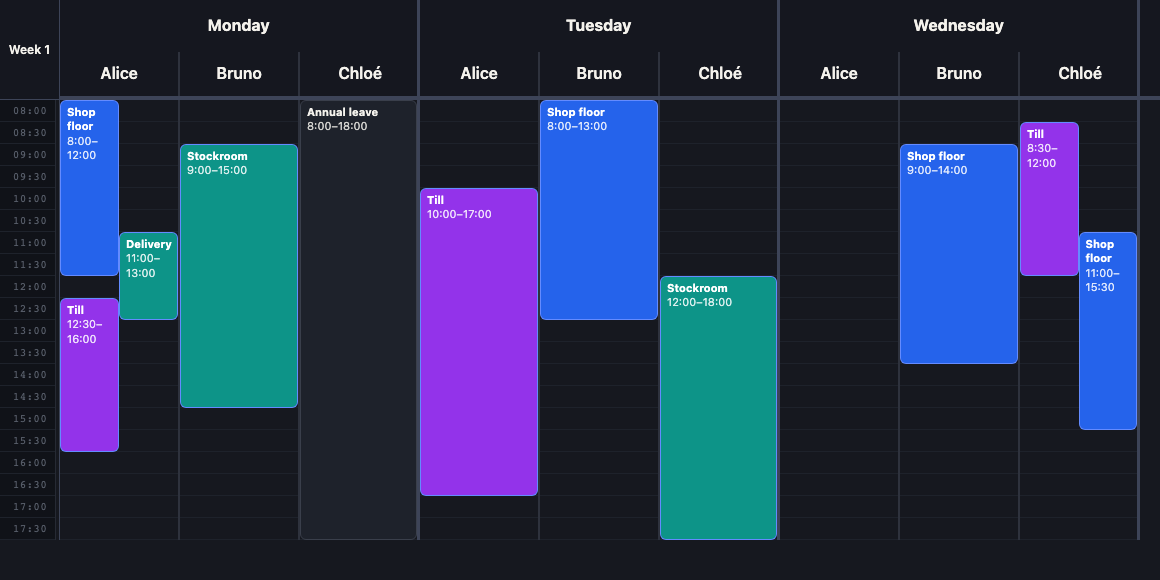
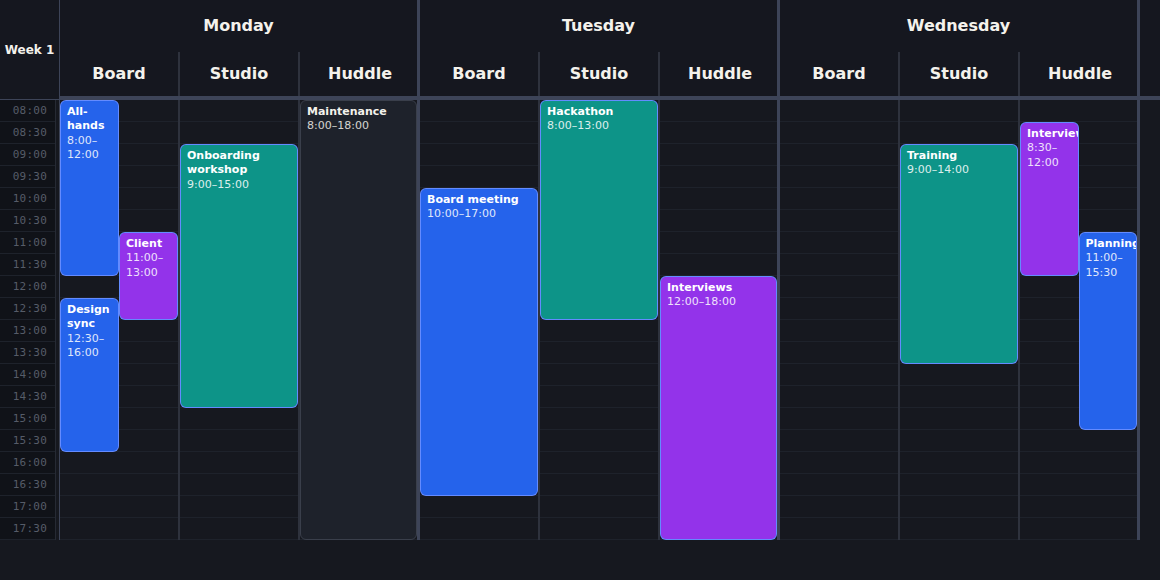
Reframe the demo as meeting-room booking (#1)
The demo scene was a staff rota (people, shifts, till/stockroom, annual
leave). It now books three meeting rooms across the week: columns are
rooms, events are bookings, and the locked entry is a maintenance block
that rejects moves onto it. Scheduling mechanics are unchanged; README
copy and screenshots are updated to match.

Claude-Session: https://claude.ai/code/session_014nqdaeoffUGhhUN4Riuzdh

diff --git a/demo/scene.tsx b/demo/scene.tsx
@@ -1,10 +1,10 @@
 // Demo scene shared by the live demo (demo/App.tsx) and the README screenshots
-// (scripts/readme-screenshot.test.tsx).
+// (scripts/readme-screenshot.test.tsx): meeting rooms booked across a week.
 import type { EventRenderContext, SchedulerColumn } from '../src/index'
 
-export type Shift = {
+export type Booking = {
   id: string
-  person: string
+  room: string
   title: string
   start: Date
   end: Date
@@ -12,11 +12,16 @@ export type Shift = {
   editable?: boolean
 }
 
-export type PersonColumn = SchedulerColumn<Shift, { person: string }>
+export type RoomColumn = SchedulerColumn<Booking, { room: string }>
 
-export const people = ['Alice', 'Bruno', 'Chloé']
+export const rooms = ['Board', 'Studio', 'Huddle']
 const dayNames = ['Monday', 'Tuesday', 'Wednesday']
-export const colors = { floor: '#2563eb', stock: '#0d9488', till: '#9333ea', leave: '#6b7280' }
+export const colors = {
+  meeting: '#2563eb',
+  workshop: '#0d9488',
+  interview: '#9333ea',
+  maintenance: '#6b7280',
+}
 
 /** Monday of the week the demo shows (the current week, so the demo never looks stale). */
 export function demoWeekStart(today = new Date()): Date {
@@ -26,7 +31,7 @@ export function demoWeekStart(today = new Date()): Date {
   return monday
 }
 
-export function demoShifts(weekStart: Date): Shift[] {
+export function demoBookings(weekStart: Date): Booking[] {
   const at = (day: number, h: number, m = 0) => {
     const d = new Date(weekStart)
     d.setDate(d.getDate() + day)
@@ -34,21 +39,21 @@ export function demoShifts(weekStart: Date): Shift[] {
     return d
   }
   return [
-    { id: '1', person: 'Alice', title: 'Shop floor', start: at(0, 8), end: at(0, 12), color: colors.floor },
-    { id: '2', person: 'Alice', title: 'Delivery', start: at(0, 11), end: at(0, 13), color: colors.stock },
-    { id: '3', person: 'Alice', title: 'Till', start: at(0, 12, 30), end: at(0, 16), color: colors.till },
-    { id: '4', person: 'Bruno', title: 'Stockroom', start: at(0, 9), end: at(0, 15), color: colors.stock },
-    { id: '5', person: 'Chloé', title: 'Annual leave', start: at(0, 8), end: at(0, 18), color: colors.leave, editable: false },
-    { id: '6', person: 'Alice', title: 'Till', start: at(1, 10), end: at(1, 17), color: colors.till },
-    { id: '7', person: 'Bruno', title: 'Shop floor', start: at(1, 8), end: at(1, 13), color: colors.floor },
-    { id: '8', person: 'Chloé', title: 'Stockroom', start: at(1, 12), end: at(1, 18), color: colors.stock },
-    { id: '9', person: 'Bruno', title: 'Shop floor', start: at(2, 9), end: at(2, 14), color: colors.floor },
-    { id: '10', person: 'Chloé', title: 'Till', start: at(2, 8, 30), end: at(2, 12), color: colors.till },
-    { id: '11', person: 'Chloé', title: 'Shop floor', start: at(2, 11), end: at(2, 15, 30), color: colors.floor },
+    { id: '1', room: 'Board', title: 'All-hands', start: at(0, 8), end: at(0, 12), color: colors.meeting },
+    { id: '2', room: 'Board', title: 'Client', start: at(0, 11), end: at(0, 13), color: colors.interview },
+    { id: '3', room: 'Board', title: 'Design sync', start: at(0, 12, 30), end: at(0, 16), color: colors.meeting },
+    { id: '4', room: 'Studio', title: 'Onboarding workshop', start: at(0, 9), end: at(0, 15), color: colors.workshop },
+    { id: '5', room: 'Huddle', title: 'Maintenance', start: at(0, 8), end: at(0, 18), color: colors.maintenance, editable: false },
+    { id: '6', room: 'Board', title: 'Board meeting', start: at(1, 10), end: at(1, 17), color: colors.meeting },
+    { id: '7', room: 'Studio', title: 'Hackathon', start: at(1, 8), end: at(1, 13), color: colors.workshop },
+    { id: '8', room: 'Huddle', title: 'Interviews', start: at(1, 12), end: at(1, 18), color: colors.interview },
+    { id: '9', room: 'Studio', title: 'Training', start: at(2, 9), end: at(2, 14), color: colors.workshop },
+    { id: '10', room: 'Huddle', title: 'Interview', start: at(2, 8, 30), end: at(2, 12), color: colors.interview },
+    { id: '11', room: 'Huddle', title: 'Planning', start: at(2, 11), end: at(2, 15, 30), color: colors.meeting },
   ]
 }
 
-export function demoColumns(weekStart: Date, dayCount = dayNames.length): PersonColumn[] {
+export function demoColumns(weekStart: Date, dayCount = dayNames.length): RoomColumn[] {
   const names = ['Monday', 'Tuesday', 'Wednesday', 'Thursday', 'Friday', 'Saturday', 'Sunday']
   return names.slice(0, dayCount).map((day, index) => {
     const date = new Date(weekStart)
@@ -57,11 +62,11 @@ export function demoColumns(weekStart: Date, dayCount = dayNames.length): Person
       id: day.toLowerCase(),
       title: day,
       date,
-      children: people.map((person) => ({
-        id: `${day.toLowerCase()}-${person}`,
-        title: person,
-        data: { person },
-        filterEvents: (events: Shift[]) => events.filter((shift) => shift.person === person),
+      children: rooms.map((room) => ({
+        id: `${day.toLowerCase()}-${room}`,
+        title: room,
+        data: { room },
+        filterEvents: (events: Booking[]) => events.filter((booking) => booking.room === room),
       })),
     }
   })
@@ -69,8 +74,8 @@ export function demoColumns(weekStart: Date, dayCount = dayNames.length): Person
 
 const time = (d: Date) => `${d.getHours()}:${String(d.getMinutes()).padStart(2, '0')}`
 
-/** Card body for a shift; the bottom strip is the resize handle. */
-export function ShiftCard({ shift, ctx }: { shift: Shift; ctx: EventRenderContext<Shift> }) {
+/** Card body for a booking; the bottom strip is the resize handle. */
+export function BookingCard({ booking, ctx }: { booking: Booking; ctx: EventRenderContext<Booking> }) {
   return (
     <div
       style={{
@@ -79,14 +84,14 @@ export function ShiftCard({ shift, ctx }: { shift: Shift; ctx: EventRenderContex
         padding: '4px 6px',
         boxSizing: 'border-box',
         borderRadius: 5,
-        background: ctx.editable || ctx.isPending ? shift.color : 'transparent',
+        background: ctx.editable || ctx.isPending ? booking.color : 'transparent',
         opacity: ctx.isPending ? 0.7 : 1,
         fontSize: 11,
         lineHeight: 1.3,
         overflow: 'hidden',
       }}
     >
-      <strong>{shift.title}</strong>
+      <strong>{booking.title}</strong>
       <div style={{ opacity: 0.85 }}>
         {time(ctx.displayStart)}–{time(ctx.displayEnd)}
       </div>

diff --git a/demo/App.tsx b/demo/App.tsx
@@ -1,6 +1,6 @@
 import { useMemo, useState } from 'react'
 import { ResourceScheduler, type EventMove, type EventResize, type SlotClick } from '../src/index'
-import { colors, demoColumns, demoShifts, demoWeekStart, ShiftCard, type Shift } from './scene'
+import { BookingCard, colors, demoBookings, demoColumns, demoWeekStart, type Booking } from './scene'
 
 type Theme = 'light' | 'dark' | 'auto'
 
@@ -13,41 +13,41 @@ const overlaps = (a: { start: Date; end: Date }, b: { start: Date; end: Date }) 
 export function App() {
   const weekStart = useMemo(() => demoWeekStart(), [])
   const columns = useMemo(() => demoColumns(weekStart, 5), [weekStart])
-  const [shifts, setShifts] = useState<Shift[]>(() => demoShifts(weekStart))
+  const [bookings, setBookings] = useState<Booking[]>(() => demoBookings(weekStart))
   const [theme, setTheme] = useState<Theme>('light')
-  const [log, setLog] = useState<string[]>(['Drag a shift to move it or give it to someone else.'])
+  const [log, setLog] = useState<string[]>(['Drag a booking to move it to another time or room.'])
 
   const note = (line: string) => setLog((lines) => [line, ...lines].slice(0, 5))
 
-  const onEventMove = async ({ event, start, end, toColumn }: EventMove<Shift, { person: string }>) => {
-    const person = toColumn?.data?.person ?? event.person
-    const onLeave = shifts.some(
-      (other) => other.person === person && other.editable === false && overlaps(other, { start, end })
+  const onEventMove = async ({ event, start, end, toColumn }: EventMove<Booking, { room: string }>) => {
+    const room = toColumn?.data?.room ?? event.room
+    const blocked = bookings.some(
+      (other) => other.room === room && other.editable === false && overlaps(other, { start, end })
     )
     await save()
-    if (onLeave) {
-      note(`Rejected: ${person} is on leave then — the shift snaps back.`)
-      throw new Error('on leave')
+    if (blocked) {
+      note(`Rejected: ${room} is closed for maintenance then — the booking snaps back.`)
+      throw new Error('room unavailable')
     }
-    setShifts((all) => all.map((s) => (s.id === event.id ? { ...s, person, start, end } : s)))
-    note(`Moved “${event.title}” to ${person}.`)
+    setBookings((all) => all.map((b) => (b.id === event.id ? { ...b, room, start, end } : b)))
+    note(`Moved “${event.title}” to ${room}.`)
   }
 
-  const onEventResize = async ({ event, end }: EventResize<Shift>) => {
+  const onEventResize = async ({ event, end }: EventResize<Booking>) => {
     await save()
-    setShifts((all) => all.map((s) => (s.id === event.id ? { ...s, end } : s)))
+    setBookings((all) => all.map((b) => (b.id === event.id ? { ...b, end } : b)))
     note(`Resized “${event.title}”.`)
   }
 
-  const onSlotClick = ({ start, column }: SlotClick<Shift, { person: string }>) => {
-    const person = column.data?.person
-    if (!person) return
-    const end = new Date(start.getTime() + 2 * 60 * 60 * 1000)
-    setShifts((all) => [
+  const onSlotClick = ({ start, column }: SlotClick<Booking, { room: string }>) => {
+    const room = column.data?.room
+    if (!room) return
+    const end = new Date(start.getTime() + 60 * 60 * 1000)
+    setBookings((all) => [
       ...all,
-      { id: String(Date.now()), person, title: 'New shift', start, end, color: colors.floor },
+      { id: String(Date.now()), room, title: 'New booking', start, end, color: colors.meeting },
     ])
-    note(`Added a shift for ${person}.`)
+    note(`Booked ${room}.`)
   }
 
   return (
@@ -56,8 +56,9 @@ export function App() {
         <div>
           <h1>resource-scheduler</h1>
           <p>
-            A React time grid with a column per resource. Drag to move or reassign, drag the bottom
-            edge to resize, click an empty slot to add a shift.
+            A React time grid with a column per resource — here, meeting rooms. Drag a booking to
+            move it or change room, drag its bottom edge to resize, click an empty slot to book. Grey
+            maintenance blocks are locked, and moves onto them are rejected.
           </p>
         </div>
         <label>
@@ -74,13 +75,13 @@ export function App() {
         <ResourceScheduler
           theme={theme}
           columns={columns}
-          events={shifts}
+          events={bookings}
           columnWidth={120}
           slotHeight={22}
           timeAxis={{ startHour: 7, endHour: 19, slotMinutes: 30 }}
           scrollToDate={weekStart}
           corner={<span className="demo-corner">This week</span>}
-          renderEvent={(shift, ctx) => <ShiftCard shift={shift} ctx={ctx} />}
+          renderEvent={(booking, ctx) => <BookingCard booking={booking} ctx={ctx} />}
           onEventMove={onEventMove}
           onEventResize={onEventResize}
           onSlotClick={onSlotClick}

diff --git a/scripts/readme-screenshot.test.tsx b/scripts/readme-screenshot.test.tsx
@@ -4,7 +4,7 @@ import { render } from 'vitest-browser-react'
 import { page } from 'vitest/browser'
 import { it } from 'vitest'
 import { ResourceScheduler } from '../src/index'
-import { demoColumns, demoShifts, demoWeekStart, ShiftCard } from '../demo/scene'
+import { BookingCard, demoBookings, demoColumns, demoWeekStart } from '../demo/scene'
 
 const weekStart = demoWeekStart(new Date(2024, 0, 1))
 
@@ -16,12 +16,12 @@ for (const theme of ['light', 'dark'] as const) {
         <ResourceScheduler
           theme={theme}
           columns={demoColumns(weekStart)}
-          events={demoShifts(weekStart)}
+          events={demoBookings(weekStart)}
           columnWidth={120}
           slotHeight={22}
           timeAxis={{ startHour: 8, endHour: 18, slotMinutes: 30 }}
           corner={<span style={{ fontSize: 12, fontWeight: 600 }}>Week 1</span>}
-          renderEvent={(shift, ctx) => <ShiftCard shift={shift} ctx={ctx} />}
+          renderEvent={(booking, ctx) => <BookingCard booking={booking} ctx={ctx} />}
         />
       </div>
     )

diff --git a/README.md b/README.md
@@ -6,13 +6,14 @@ and drop to move, reassign and resize them.
 
 <picture>
   <source media="(prefers-color-scheme: dark)" srcset="docs/screenshot-dark.png">
-  <img alt="Resource scheduler: three days, each split into a column per person, with shifts placed by time, overlapping shifts side by side and a locked leave entry" src="docs/screenshot-light.png">
+  <img alt="Resource scheduler: three days, each split into a column per meeting room (Board, Studio, Huddle), with bookings placed by time, overlapping bookings side by side and a locked maintenance block" src="docs/screenshot-light.png">
 </picture>
 
 > Status: extracted from simple-retail-planner; not yet published to npm.
 
-**Live demo:** https://nicholasjstock.github.io/resource-scheduler/ — drag shifts between people,
-resize them, add one by clicking an empty slot, and switch between light and dark. The source is in
+**Live demo:** https://nicholasjstock.github.io/resource-scheduler/ — a week of meeting-room
+bookings: drag them between times and rooms, resize them, book a room by clicking an empty slot, and
+switch between light and dark. Moves onto a room's locked maintenance block are rejected and roll back. The source is in
 [`demo/`](demo/); run it locally with `npm run demo`.
 
 ## Usage
